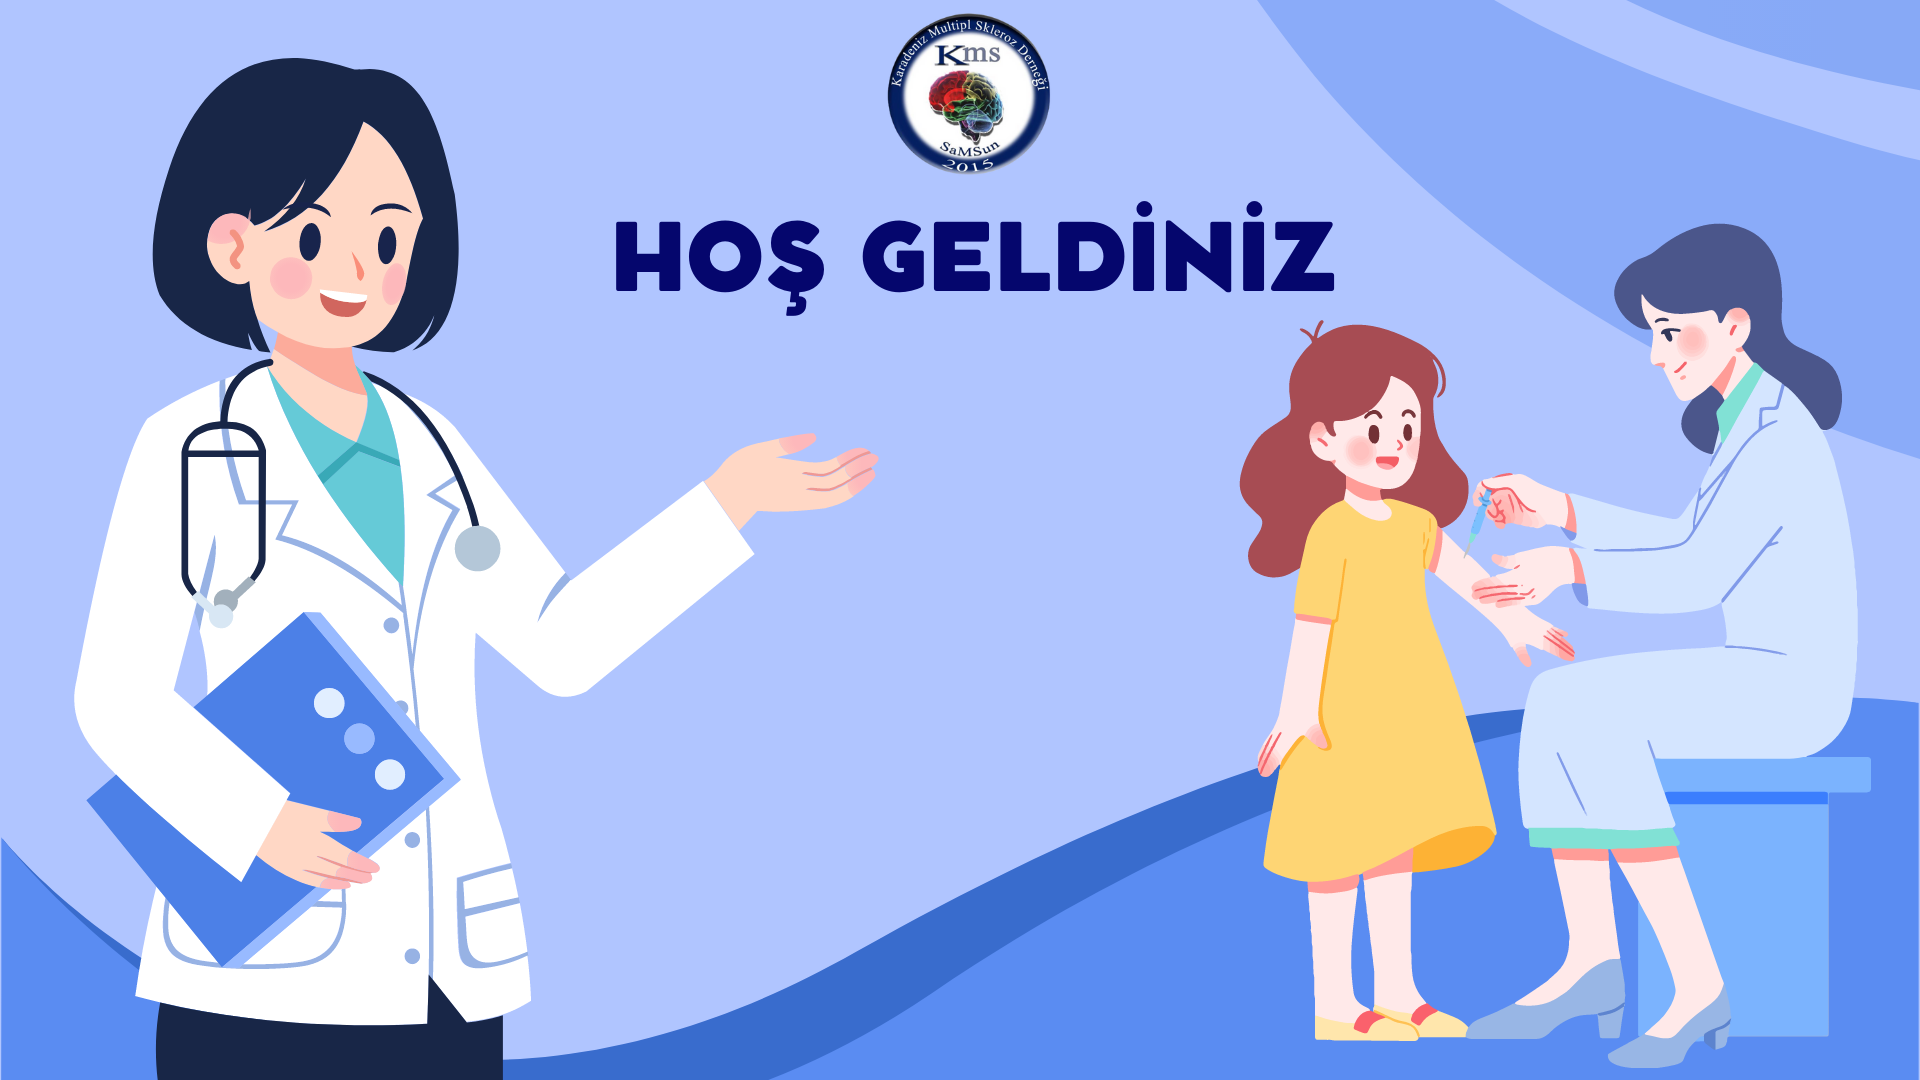
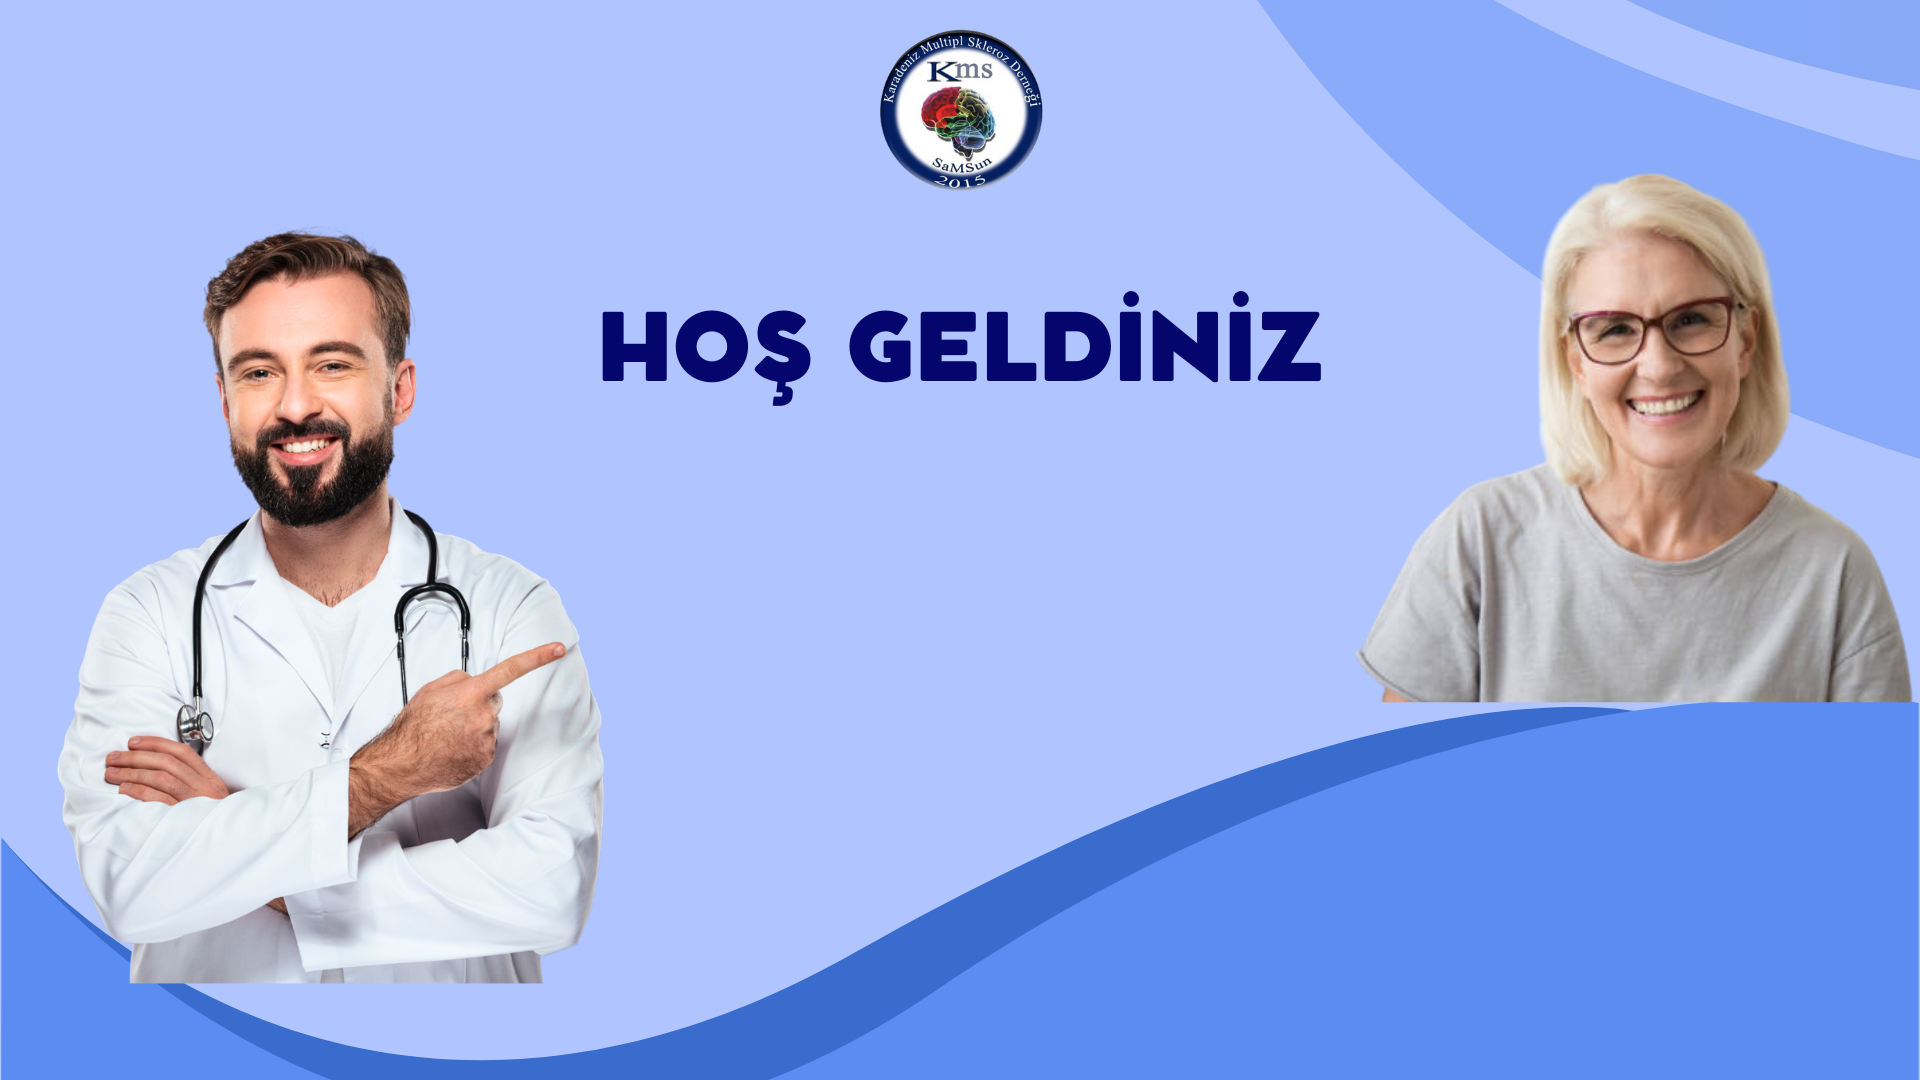
Giriş sayfası güncelendi

diff --git a/startup-website-template/giris_sayfasi.html b/startup-website-template/giris_sayfasi.html
@@ -2,7 +2,6 @@
 <html>
 
 <head>
-
     <style>
         .image-container {
             width: 100%;
@@ -22,19 +21,45 @@
         
         .button-container {
             position: absolute;
-            bottom: 0;
             display: flex;
             justify-content: space-between;
+            align-items: center;
+            top: 50%;
+            transform: translateY(-50%);
             width: 100%;
             padding: 0 1rem;
         }
         
         .button-container button {
-            margin-left: 1rem;
-            background-color: transparent;
+            background-color: rgb(12, 12, 114);
             border: none;
-            color: transparent;
-            width: 50%;
+            color: white;
+            height: 50px;
+            font-size: 24px;
+            padding: 12px 24px;
+            border-radius: 5px;
+            cursor: pointer;
+            transition: background-color 0.2s ease;
+        }
+        
+        .button-container button:hover {
+            background-color: darkblue;
+        }
+        
+        #left-button {
+            position: absolute;
+            top: 0;
+            left: 35%;
+            transform: translate(0%, -10%);
+            margin-right: 10px;
+        }
+        
+        #right-button {
+            position: absolute;
+            top: 0;
+            right: 35%;
+            transform: translate(0%, -10%);
+            margin-left: -50px;
         }
     </style>
 </head>
@@ -43,11 +68,10 @@
     <div class="image-container">
         <img src="img/hosgeldiniz.png" alt="image-description">
         <div class="button-container">
-            <a href="doktor_anasayfasi.html"><button id="left-button">Button 1</button></a>
-            <a href="hasta_anasayfasi.html"><button id="right-button">Button 2</button></a>
+            <a href="index.html"><button id="left-button">Doktor Girişi</button></a>
+            <a href="index.html"><button id="right-button">Hasta Girişi</button></a>
         </div>
     </div>
-
     <script>
         var leftButton = document.getElementById("left-button");
         var rightButton = document.getElementById("right-button");
